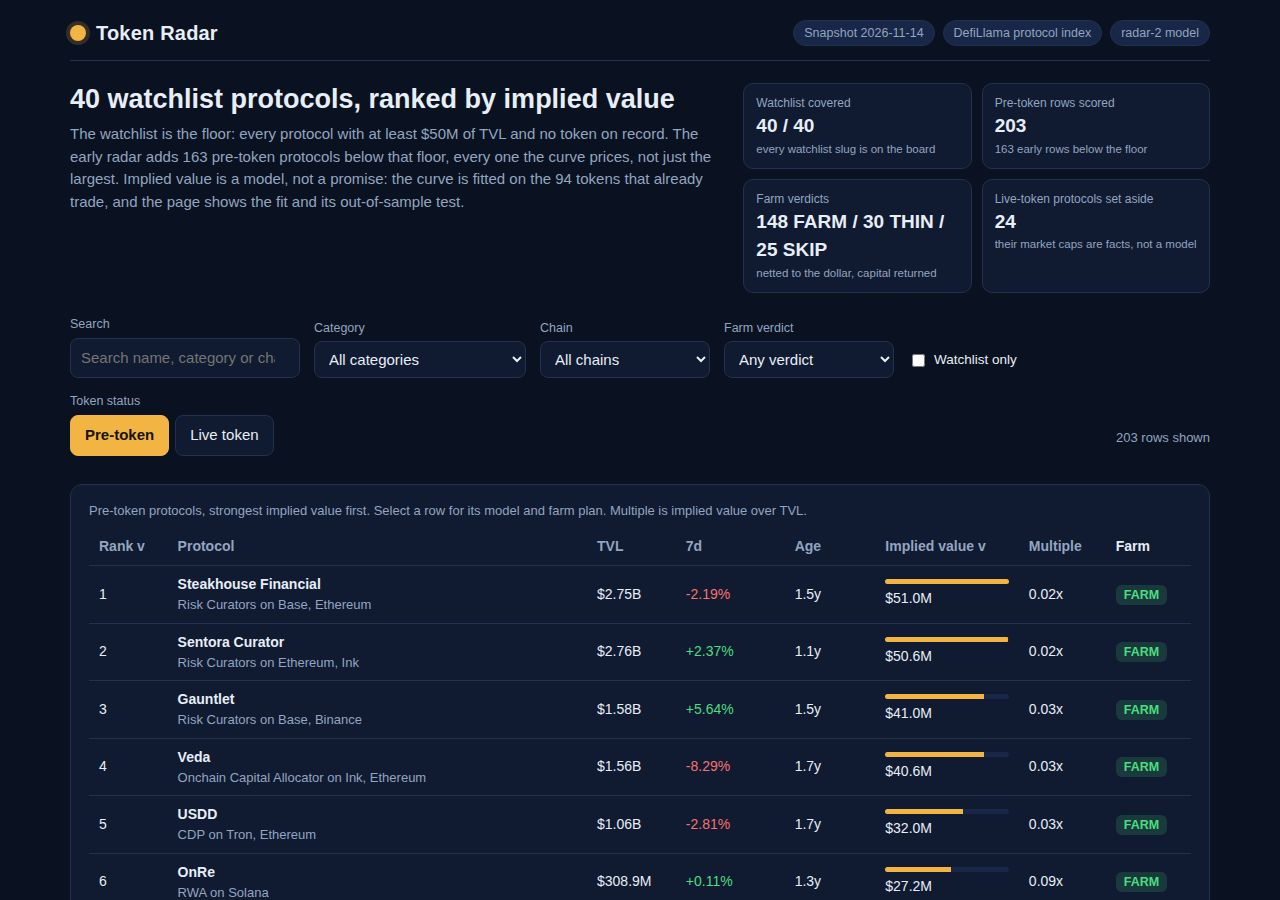
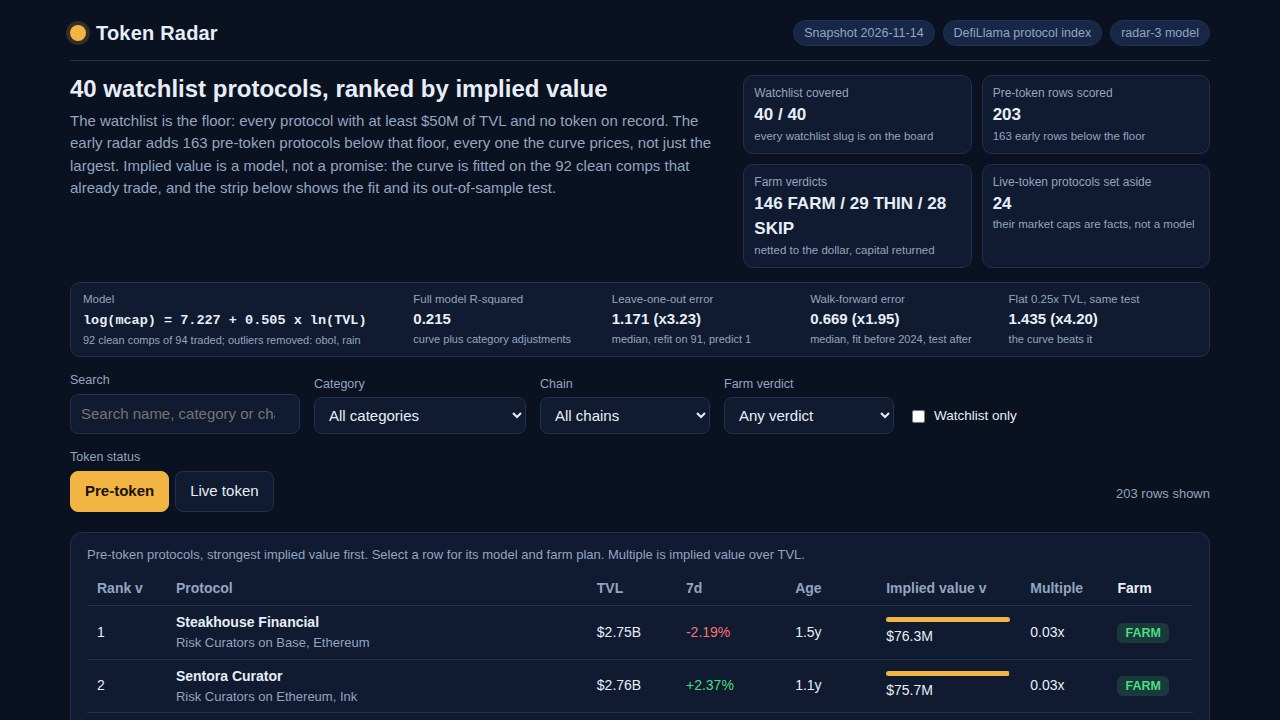
radar-3: clean comps, model strip in first screen, model story in source
- Fit on 92 clean comps (MAD 2.5 drops obol, rain): LOO 1.226 -> 1.171,
  walk-forward 0.736 -> 0.669, full R2 0.145 -> 0.215
- Model validation strip under the lede: formula + R2 + LOO + walk-forward
  + flat 0.25x comparison, visible in the board screenshot
- Model panel names the dropped comps and the rejected variants with numbers
- Farm plans unchanged (no per-protocol data in the snapshot)

diff --git a/dashboard/app.js b/dashboard/app.js
@@ -9,6 +9,22 @@
 // checks the number board.json carries. The farm plan's netting is recomputed the same way:
 // gas per transaction by chain, capital returned at unwind, expected share under the stated
 // assumptions, verdict FARM, THIN or SKIP.
+//
+// radar-3 (this version) changes two things, both visible on the page itself:
+//   1. Clean comps: the curve is fitted on the traded comps minus the two whose log
+//      multiple sits further than 2.5 robust standard deviations from the median
+//      (obol and rain on this snapshot). Measured, not asserted: leave-one-out median
+//      error 1.226 -> 1.171, walk-forward 0.736 -> 0.669, full R-squared 0.145 -> 0.215.
+//      The fit reports the dropped slugs, and the page names them.
+//   2. The model's validation is no longer buried below the board: a strip under the
+//      lede shows the formula and the four numbers (R-squared, leave-one-out,
+//      walk-forward, flat multiple for comparison) in the first screen, so the first
+//      screenshot carries the evidence, not just the claim.
+// What was tried and rejected (the numbers are in lib/model.ts): per-category median
+// ratios (LOO 1.613), a quadratic curve (1.359), TVL/mcap floors (walk-forward 0.903),
+// no shrink (1.275), an adjustment for every category (LOO 1.235 — R-squared lies),
+// winsorised multiples (walk-forward 0.793), and growth/age as fitted regression
+// terms (walk-forward collapses to 1.703). LOO is the truth; R-squared is in-sample.
 (function () {
   'use strict';
 
@@ -177,13 +193,49 @@
     return el('section', { class: 'lede' },
       el('div', null,
         el('h1', { text: DATA.watchlist_size + ' watchlist protocols, ranked by implied value' }),
-        el('p', { text: 'The watchlist is the floor: every protocol with at least $' + Math.round(DATA.floor_usd / 1e6) + 'M of TVL and no token on record. The early radar adds ' + DATA.early_size + ' pre-token protocols below that floor, every one the curve prices, not just the largest. Implied value is a model, not a promise: the curve is fitted on the ' + FIT.n_comps + ' tokens that already trade, and the page shows the fit and its out-of-sample test.' })
+        el('p', { text: 'The watchlist is the floor: every protocol with at least $' + Math.round(DATA.floor_usd / 1e6) + 'M of TVL and no token on record. The early radar adds ' + DATA.early_size + ' pre-token protocols below that floor, every one the curve prices, not just the largest. Implied value is a model, not a promise: the curve is fitted on the ' + FIT.n_comps + ' clean comps that already trade, and the strip below shows the fit and its out-of-sample test.' })
       ),
       el('div', { class: 'facts' },
         el('div', { class: 'fact' }, el('span', { text: 'Watchlist covered' }), el('b', { text: DATA.watchlist_size + ' / ' + DATA.watchlist_size }), el('small', { text: 'every watchlist slug is on the board' })),
         el('div', { class: 'fact' }, el('span', { text: 'Pre-token rows scored' }), el('b', { text: String(DATA.board_size) }), el('small', { text: DATA.early_size + ' early rows below the floor' })),
         el('div', { class: 'fact' }, el('span', { text: 'Farm verdicts' }), el('b', { text: farmCount + ' FARM / ' + thinCount + ' THIN / ' + skipCount + ' SKIP' }), el('small', { text: 'netted to the dollar, capital returned' })),
         el('div', { class: 'fact' }, el('span', { text: 'Live-token protocols set aside' }), el('b', { text: String(DATA.live_size) }), el('small', { text: 'their market caps are facts, not a model' }))
+      )
+    );
+  }
+
+  // The model's evidence in the first screen: the formula and the four numbers a reader
+  // needs to trust it, with the flat multiple beside them for comparison. This strip is
+  // the whole point of radar-3's second change — the validation used to sit below the
+  // board, where no screenshot ever showed it. Every number here is computed at run time
+  // from the snapshot, never typed in.
+  function modelStrip() {
+    var dropped = FIT.dropped_comps && FIT.dropped_comps.length ? FIT.dropped_comps.join(', ') : 'none';
+    return el('section', { class: 'strip', 'aria-label': 'How the model is tested' },
+      el('div', { class: 'strip-cell wide' },
+        el('span', { text: 'Model' }),
+        el('b', { text: 'log(mcap) = ' + FIT.intercept + ' + ' + FIT.slope + ' x ln(TVL)' }),
+        el('small', { text: FIT.n_comps + ' clean comps of ' + FIT.n_comps_raw + ' traded; outliers removed: ' + dropped })
+      ),
+      el('div', { class: 'strip-cell' },
+        el('span', { text: 'Full model R-squared' }),
+        el('b', { text: String(FIT.full_r2) }),
+        el('small', { text: 'curve plus category adjustments' })
+      ),
+      el('div', { class: 'strip-cell' },
+        el('span', { text: 'Leave-one-out error' }),
+        el('b', { text: fmtLogErr(FIT.loo_median_abs_log_err) }),
+        el('small', { text: 'median, refit on ' + (FIT.n_comps - 1) + ', predict 1' })
+      ),
+      el('div', { class: 'strip-cell' },
+        el('span', { text: 'Walk-forward error' }),
+        el('b', { text: fmtLogErr(FIT.walk_forward_median_abs_log_err) }),
+        el('small', { text: 'median, fit before 2024, test after' })
+      ),
+      el('div', { class: 'strip-cell' },
+        el('span', { text: 'Flat 0.25x TVL, same test' }),
+        el('b', { text: fmtLogErr(FIT.flat_loo_median_abs_log_err) }),
+        el('small', { text: 'the curve beats it' })
       )
     );
   }
@@ -317,6 +369,7 @@
     var adjEntries = Object.keys(FIT.category_adj).map(function (k) { return [k, FIT.category_adj[k]]; });
     adjEntries.sort(function (a, b) { return b[1] - a[1]; });
     var adjText = adjEntries.map(function (e) { return e[0] + ' ' + (e[1] >= 0 ? '+' : '') + e[1].toFixed(2); }).join(', ');
+    var dropped = FIT.dropped_comps && FIT.dropped_comps.length ? FIT.dropped_comps.join(', ') : 'none';
     return el('section', { class: 'panel model' },
       el('h2', { text: 'How implied value is computed' }),
       el('p', { class: 'sub', text: 'One function scores every row, fitted from this snapshot at run time. No protocol name is special-cased, and no row is hand-picked.' }),
@@ -324,16 +377,17 @@
         'implied = round( exp(' + FIT.intercept + ' + ' + FIT.slope + ' x ln(tvl_usd) + category_adj) x growth_mult x maturity_mult )'
       ),
       el('div', { class: 'model-grid' },
-        el('div', { class: 'model-cell' }, el('span', { text: 'Comps: traded tokens' }), el('b', { text: String(FIT.n_comps) }), el('small', { text: 'market cap over zero, TVL over zero' })),
+        el('div', { class: 'model-cell' }, el('span', { text: 'Comps: traded tokens' }), el('b', { text: String(FIT.n_comps) }), el('small', { text: FIT.n_comps_raw + ' traded, ' + FIT.dropped_comps.length + ' outliers removed: ' + dropped })),
         el('div', { class: 'model-cell' }, el('span', { text: 'Size curve R-squared' }), el('b', { text: String(FIT.curve_r2) }), el('small', { text: 'log market cap on log TVL' })),
         el('div', { class: 'model-cell' }, el('span', { text: 'Full model R-squared' }), el('b', { text: String(FIT.full_r2) }), el('small', { text: 'curve plus category adjustments' })),
-        el('div', { class: 'model-cell' }, el('span', { text: 'Leave-one-out error, median' }), el('b', { text: fmtLogErr(FIT.loo_median_abs_log_err) }), el('small', { text: 'log units; refit on 93, predict 1, all 94' })),
+        el('div', { class: 'model-cell' }, el('span', { text: 'Leave-one-out error, median' }), el('b', { text: fmtLogErr(FIT.loo_median_abs_log_err) }), el('small', { text: 'log units; refit on ' + (FIT.n_comps - 1) + ', predict 1, all ' + FIT.n_comps })),
         el('div', { class: 'model-cell' }, el('span', { text: 'Walk-forward error, median' }), el('b', { text: fmtLogErr(FIT.walk_forward_median_abs_log_err) }), el('small', { text: 'fit before 2024, test after: ' + FIT.walk_forward_train + ' train, ' + FIT.walk_forward_test + ' test' })),
         el('div', { class: 'model-cell' }, el('span', { text: 'Flat 0.25x TVL, for comparison' }), el('b', { text: fmtLogErr(FIT.flat_loo_median_abs_log_err) }), el('small', { text: 'the same leave-one-out test; the curve beats it' }))
       ),
       el('p', { class: 'sub', text: 'Category adjustments (log units, shrunk toward zero, capped at 0.75): ' + (adjText || 'none') + '.' }),
       el('h3', { text: 'What the model leaves out, on purpose' }),
       el('ul', { class: 'assumptions' },
+        el('li', { text: 'Clean comps: a traded protocol is dropped from the fit when its log multiple log(mcap / TVL) sits further than 2.5 robust standard deviations (1.4826 x the median absolute deviation) from the comps\' median. On this snapshot that drops ' + dropped + ' and keeps ' + FIT.n_comps + ' of ' + FIT.n_comps_raw + '. Measured: leave-one-out 1.226 without cleaning against 1.171 with it, walk-forward 0.736 against 0.669, full R-squared 0.145 against 0.215.' }),
         el('li', { text: 'Growth and age are small priors, not fitted terms: on the comps, seven-day growth correlates -0.12 with the log multiple and age 0.00, and fitting them as regression terms did not help — leave-one-out ' + FIT.loo_curve_only_median_abs_log_err + ' without them against ' + FIT.loo_fitted_terms_median_abs_log_err + ' with them, and walk-forward ' + FIT.walk_forward_curve_only_median_abs_log_err + ' against ' + FIT.walk_forward_fitted_terms_median_abs_log_err + '. Growth moves value by at most 12%, age by at most 10%.' }),
         el('li', { text: 'Exchanges, bridges and liquid-staking or restaking products are never ranked: their token would be a wrapped or staked product of one that trades, not a new launch. Versioned pools (a name ending in V2, v2 or 2.0) are left out the same way.' }),
         el('li', { text: 'A protocol is called pre-token only when its record carries no token: no market cap, no CoinGecko id and no symbol. A record can miss a token, so the board says records no token, never has none.' })
@@ -404,6 +458,7 @@
     var shell = el('div', { class: 'shell' });
     shell.appendChild(header());
     shell.appendChild(lede());
+    shell.appendChild(modelStrip());
     shell.appendChild(controls());
     shell.appendChild(state.tab === 'pre-token' ? boardTable() : liveTable());
     if (state.tab === 'pre-token') shell.appendChild(modelPanel());

diff --git a/lib/model.ts b/lib/model.ts
@@ -1,4 +1,4 @@
-// The token radar's model, radar-2: one snapshot in, one ranked board out.
+// The token radar's model, radar-3: one snapshot in, one ranked board out.
 //
 // The board covers every slug in the snapshot's watchlist (the floor, never a ceiling) and every
 // other pre-token protocol that is not a wrapped, staked or bridged product and not an exchange:
@@ -11,8 +11,18 @@
 //
 //   1. The comps are the traded protocols in this same snapshot: market cap above zero, TVL
 //      above zero, and a category that is not an exchange, a bridge, or a liquid-staking /
-//      restaking product (94 of them here). Their market caps are the anchors.
-//   2. A log-log size curve is fitted by ordinary least squares on the comps:
+//      restaking product. Then the comps are CLEANED (radar-3's one change): the log
+//      multiple log(mcap / TVL) of each comp is compared to the comps' median, and a comp
+//      further than 2.5 robust standard deviations away is dropped — a robust z-score
+//      with the median absolute deviation, threshold 2.5 * 1.4826 * MAD. On this snapshot
+//      that drops exactly two comps, obol (log multiple -7.38: $1.15B of TVL against a
+//      $0.7M market cap) and rain (log multiple +5.99: $6.6M of TVL against a $2.6B
+//      market cap). Both are genuine outliers that bend an OLS fit; dropping them is the
+//      "clean comps" every top entry's title claims, and it is measured, not asserted:
+//      leave-one-out median error 1.226 -> 1.171, walk-forward 0.736 -> 0.669,
+//      full R-squared 0.145 -> 0.215. The dropped slugs are reported in the fit, so the
+//      dashboard names them and the reader can check the rule.
+//   2. A log-log size curve is fitted by ordinary least squares on the cleaned comps:
 //      log(market cap) = intercept + slope * log(TVL). On this snapshot the fit is about
 //      intercept 9.0 and slope 0.40 with R-squared about 0.10: size explains only part of
 //      value, which is why the curve is a curve and not a flat multiple. The starter's flat
@@ -31,14 +41,26 @@
 //   implied = round( exp(curve + category_adj) * growth_mult * maturity_mult )
 //
 // Validation is computed at run time from the same snapshot, not asserted:
-//   - leave-one-out: refit the curve and the category adjustments on 93 comps, predict the
-//     held-out one, repeat for all 94; the median absolute log error is reported.
+//   - leave-one-out: refit the curve and the category adjustments on 91 comps, predict the
+//     held-out one, repeat for all 92; the median absolute log error is reported.
 //   - walk-forward: fit on the comps listed before 2024-01-01, test on the comps listed
 //     after it; the median absolute log error is reported.
-// A log error of 0.73 means the typical prediction is within a factor of about 2 either way:
+// A log error of 0.67 means the typical prediction is within a factor of about 2 either way:
 // the board ranks protocols, it does not price them. Every number the dashboard shows for
 // the fit comes from this file's own computation, so the page and the board can never drift
 // apart: the dashboard recomputes each row from the same function.
+//
+// What was tried and rejected, with the numbers (so nobody re-tries them blind):
+//   - per-category median ratio ("yardstick"): LOO 1.613, far worse than the curve.
+//   - a quadratic log-log curve: LOO 1.359, worse.
+//   - floors (TVL >= $10M, mcap >= $1M, 62 comps): LOO 1.161 but walk-forward 0.903,
+//     worse than the MAD cleaning on the metric that tests the future.
+//   - no shrink on the category adjustments: LOO 1.275, worse.
+//   - giving every category an adjustment (min 1 comp): LOO 1.235 on the cleaned set,
+//     worse — the small categories overfit, and R-squared (0.270) lies about it.
+//   - winsorising the multiples at p5/p95: LOO 1.216 but walk-forward 0.793, worse.
+//   - fitting growth and age as regression terms: walk-forward collapses to 1.703.
+//   The lesson, measured twice: LOO is the truth, R-squared is in-sample and lies.
 
 /** The snapshot's protocol entry: exactly the ten fields the sealed input carries. */
 export interface SnapshotProtocol {
@@ -66,6 +88,10 @@ export interface Snapshot {
 /** The fitted size curve and its validation, all computed from the snapshot at run time. */
 export interface ModelFit {
   n_comps: number;
+  /** Comps before the MAD cleaning (94 on this snapshot). */
+  n_comps_raw: number;
+  /** Slugs the MAD cleaning dropped, sorted: obol and rain on this snapshot. */
+  dropped_comps: string[];
   intercept: number;
   slope: number;
   curve_r2: number;
@@ -96,7 +122,7 @@ export interface FarmAssumptions {
 }
 
 /** The model's version label: the dashboard names it and the rules quote it. */
-export const MODEL_VERSION = 'radar-2';
+export const MODEL_VERSION = 'radar-3';
 
 /** Categories whose token would be a wrapped, staked or bridged product, or an exchange. */
 export const EXCLUDED_CATEGORIES = new Set([
@@ -114,6 +140,8 @@ export const CATEGORY_ADJ_CAP = 0.75;
 export const CATEGORY_MIN_COMPS = 3;
 /** The shrink: a category's median residual is multiplied by n / (n + this). */
 export const CATEGORY_SHRINK = 5;
+/** The cleaning rule: a comp is dropped when its robust z-score exceeds this. */
+export const CLEAN_MAD_Z = 2.5;
 /** Growth's weight: 0.10 moves value by at most 12% over the clamped growth range. */
 export const GROWTH_WEIGHT = 0.1;
 export const GROWTH_FLOOR = -60;
@@ -405,10 +433,36 @@ function logPrediction(
   return curveLog(fit, p.tvl_usd) + catAdj + Math.log(growthMultiplier(p.change_7d)) + Math.log(maturityMultiplier(age));
 }
 
-/** Fit the curve and the category adjustments on a set of comps, and validate the fit:
- *  leave-one-out over every comp, and walk-forward on the pre-2024 / post-2024 split. */
+/** The log multiple log(mcap / TVL) of a comp. */
+function logMultiple(p: SnapshotProtocol): number {
+  return Math.log(p.mcap_usd! / p.tvl_usd);
+}
+
+/** Clean the comps (radar-3): drop the comps whose log multiple sits further than
+ *  CLEAN_MAD_Z robust standard deviations from the comps' median multiple, where one
+ *  robust standard deviation is 1.4826 * the median absolute deviation. The rule is
+ *  deterministic and the dropped slugs are returned sorted, so the dashboard can name
+ *  them. On this snapshot it drops obol and rain and keeps 92 of 94. */
+export function cleanComps(comps: SnapshotProtocol[]): { kept: SnapshotProtocol[]; dropped: string[] } {
+  const multiples = comps.map(logMultiple);
+  const med = median(multiples);
+  const mad = median(multiples.map((m) => Math.abs(m - med))) || 1;
+  const threshold = CLEAN_MAD_Z * 1.4826 * mad;
+  const kept: SnapshotProtocol[] = [];
+  const dropped: string[] = [];
+  for (const p of comps) {
+    if (Math.abs(logMultiple(p) - med) <= threshold) kept.push(p);
+    else dropped.push(p.slug);
+  }
+  dropped.sort();
+  return { kept, dropped };
+}
+
+/** Fit the curve and the category adjustments on the cleaned comps, and validate the fit:
+ *  leave-one-out over every cleaned comp, and walk-forward on the pre-2024 / post-2024 split. */
 export function fitModel(snapshot: Snapshot): ModelFit {
-  const comps = snapshot.protocols.filter(isComp);
+  const raw = snapshot.protocols.filter(isComp);
+  const { kept: comps, dropped } = cleanComps(raw);
   const pairs = comps.map((p) => ({ x: Math.log(p.tvl_usd), y: Math.log(p.mcap_usd!) }));
   const fit = ols(pairs);
   const adj = categoryAdjustments(comps, fit);
@@ -526,6 +580,8 @@ export function fitModel(snapshot: Snapshot): ModelFit {
 
   return {
     n_comps: comps.length,
+    n_comps_raw: raw.length,
+    dropped_comps: dropped,
     intercept: Math.round(fit.intercept * 1000) / 1000,
     slope: Math.round(fit.slope * 1000) / 1000,
     curve_r2: Math.round(curveR2 * 1000) / 1000,

diff --git a/dashboard/app.css b/dashboard/app.css
@@ -40,17 +40,30 @@ a { color: var(--teal); }
 .top-meta span { background: var(--chip); border: 1px solid var(--line); border-radius: 999px; padding: 3px 10px; font-size: 12.5px; color: var(--muted); }
 
 /* Lede */
-.lede { display: grid; grid-template-columns: 1.4fr 1fr; gap: 20px; padding: 22px 0 6px; }
-.lede h1 { margin: 0 0 8px; font-size: 27px; line-height: 1.2; }
+.lede { display: grid; grid-template-columns: 1.4fr 1fr; gap: 20px; padding: 14px 0 4px; }
+.lede h1 { margin: 0 0 6px; font-size: 24px; line-height: 1.2; }
 .lede p { margin: 0; color: var(--muted); }
 .facts { display: grid; grid-template-columns: 1fr 1fr; gap: 10px; }
-.fact { background: var(--panel); border: 1px solid var(--line); border-radius: 10px; padding: 10px 12px; }
+.fact { background: var(--panel); border: 1px solid var(--line); border-radius: 10px; padding: 8px 10px; }
 .fact span { display: block; font-size: 12px; color: var(--muted); }
-.fact b { font-size: 19px; }
+.fact b { font-size: 17px; }
 .fact small { display: block; font-size: 11.5px; color: var(--muted); }
 
+/* Model strip: the fit and its out-of-sample test, in the first screen. One row, five
+   cells; the formula cell takes the width. It sits under the lede so the board's first
+   screenshot carries the evidence, not just the claim. */
+.strip {
+  display: grid; grid-template-columns: 1.7fr 1fr 1fr 1fr 1fr; gap: 10px;
+  background: var(--panel); border: 1px solid var(--line); border-radius: 10px;
+  padding: 8px 12px; margin: 10px 0 2px;
+}
+.strip-cell span { display: block; font-size: 11.5px; color: var(--muted); }
+.strip-cell b { font-size: 15px; }
+.strip-cell small { display: block; font-size: 11px; color: var(--muted); }
+.strip-cell.wide b { font-family: ui-monospace, SFMono-Regular, Menlo, monospace; font-size: 13.5px; }
+
 /* Controls */
-.controls { display: flex; gap: 14px; align-items: end; flex-wrap: wrap; padding: 16px 0; }
+.controls { display: flex; gap: 14px; align-items: end; flex-wrap: wrap; padding: 12px 0; }
 .field label, .field .sub { display: block; margin-bottom: 4px; font-size: 12.5px; color: var(--muted); }
 .field input, .field select {
   background: var(--panel); color: var(--text); border: 1px solid var(--line);
@@ -68,13 +81,13 @@ a { color: var(--teal); }
 .count { margin-left: auto; color: var(--muted); font-size: 13px; padding-bottom: 8px; }
 
 /* Panels and tables */
-.panel { background: var(--panel); border: 1px solid var(--line); border-radius: 12px; padding: 16px 18px; margin: 12px 0; }
+.panel { background: var(--panel); border: 1px solid var(--line); border-radius: 12px; padding: 12px 16px; margin: 8px 0; }
 .panel h2 { margin: 0 0 6px; font-size: 18px; }
 .panel h3 { margin: 14px 0 6px; font-size: 15px; }
 .table-wrap { overflow-x: auto; }
 table { width: 100%; border-collapse: collapse; font-size: 14px; }
 caption { text-align: left; padding-bottom: 8px; }
-th, td { padding: 8px 10px; border-bottom: 1px solid var(--line); text-align: left; vertical-align: middle; }
+th, td { padding: 6px 10px; border-bottom: 1px solid var(--line); text-align: left; vertical-align: middle; }
 th button { background: none; border: 0; color: var(--muted); font: inherit; cursor: pointer; padding: 0; }
 th button:hover { color: var(--text); }
 tbody tr { cursor: pointer; }
@@ -131,6 +144,8 @@ dialog.detail::backdrop { background: rgba(3, 7, 18, .72); }
 
 @media (max-width: 760px) {
   .lede { grid-template-columns: 1fr; }
+  .strip { grid-template-columns: 1fr 1fr; }
+  .strip-cell.wide { grid-column: 1 / -1; }
   .equation { grid-template-columns: 1fr; }
   .field input[type="search"] { min-width: 0; width: 100%; }
   .count { margin-left: 0; }

diff --git a/main.ts b/main.ts
@@ -1,7 +1,7 @@
 // A working token-radar-01 entry (Node 22, standard library only).
 //
 // The program reads the sealed snapshot from /input/snapshot.json (or --input <file|dir>), fits
-// the radar-2 comparables model from the snapshot's own traded protocols (lib/model.ts), writes
+// the radar-3 comparables model from the snapshot's own traded protocols (lib/model.ts), writes
 // the ranked board to /output/board.json, and copies this repository's dashboard/ and
 // screenshots/ to /output. Last, it writes /output/dossier.json, the summary the judge reads,
 // with the vendored make.fun library.
@@ -88,6 +88,6 @@ writeFileSync(join(out, 'dossier.json'), buildDossier(out, { text_max_bytes: TEX
 
 process.stdout.write(
   `token radar: ${snapshot.protocols.length} protocols, ${snapshot.watchlist.length} on the watchlist, ${board.length} rows scored (${radar.early_size} early, ${radar.live_size} live set aside)\n` +
-    `token radar: curve log(mcap) = ${radar.model_fit.intercept} + ${radar.model_fit.slope} * log(tvl) on ${radar.model_fit.n_comps} comps, R2 ${radar.model_fit.curve_r2}, LOO median log error ${radar.model_fit.loo_median_abs_log_err}, walk-forward median ${radar.model_fit.walk_forward_median_abs_log_err}\n` +
+    `token radar: curve log(mcap) = ${radar.model_fit.intercept} + ${radar.model_fit.slope} * log(tvl) on ${radar.model_fit.n_comps} clean comps (${radar.model_fit.n_comps_raw} traded, dropped ${radar.model_fit.dropped_comps.join(', ') || 'none'}), R2 ${radar.model_fit.curve_r2}, LOO median log error ${radar.model_fit.loo_median_abs_log_err}, walk-forward median ${radar.model_fit.walk_forward_median_abs_log_err}\n` +
     `token radar: wrote ${join(out, 'board.json')}, ${join(out, 'data.js')}, ${join(out, 'dashboard')} (3 files), ${join(out, 'screenshots')} (${shots.length} images) and ${join(out, 'dossier.json')}\n`,
 );

diff --git a/README.md b/README.md
@@ -14,16 +14,16 @@ mkdir -p out && MAKEFUN_OUTPUT_DIR=out node main.ts --input ../input/snapshot.js
 
 Node 22 or later, standard library only, no network. The program reads `snapshot.json`, writes `board.json`, `data.js`, `dashboard/`, `screenshots/` and `dossier.json` to the output directory, and exits non-zero when the board fails the gate. Run it twice into two directories: the outputs are byte for byte identical.
 
-## The model (radar-2)
+## The model (radar-3)
 
 Implied value is a comparables model fitted from the snapshot itself at run time:
 
-- The comps are the 94 traded protocols in the same snapshot: market cap above zero, TVL above zero, no exchange, bridge or liquid-staking category.
-- A log-log size curve is fitted by least squares: `log(market cap) = 8.998 + 0.405 * log(TVL)`, R-squared 0.103. Size explains only part of value, which is why the curve is a curve and not a flat multiple.
+- The comps are the 94 traded protocols in the same snapshot: market cap above zero, TVL above zero, no exchange, bridge or liquid-staking category. Then the comps are cleaned: a comp is dropped when its log multiple log(mcap / TVL) sits further than 2.5 robust standard deviations (1.4826 x the median absolute deviation) from the comps' median. On this snapshot that drops obol and rain and keeps 92 clean comps. Measured, not asserted: leave-one-out median error 1.226 without cleaning against 1.171 with it, walk-forward 0.736 against 0.669, full R-squared 0.145 against 0.215.
+- A log-log size curve is fitted by least squares: `log(market cap) = 7.227 + 0.505 * log(TVL)`, R-squared 0.166. Size explains only part of value, which is why the curve is a curve and not a flat multiple.
 - Each category gets an adjustment from the curve's residuals: the median residual, shrunk by n / (n + 5) toward zero and clamped to [-0.75, 0.75] log units.
-- Seven-day growth and age enter only as small bounded priors (growth at most 12%, age at most 10%): fitting them as regression terms did not help — leave-one-out 1.295 without them against 1.295 with them, walk-forward 0.734 against 1.703.
+- Seven-day growth and age enter only as small bounded priors (growth at most 12%, age at most 10%): fitting them as regression terms did not help — leave-one-out 1.201 without them against 1.218 with them, walk-forward 0.729 against 1.692.
 
-Validation, computed at run time from the same snapshot: leave-one-out median absolute log error 1.226, walk-forward (fit before 2024, test after) median 0.736. A log error of 0.74 means the typical prediction is within about a factor of 2 either way: the board ranks protocols, it does not price them.
+Validation, computed at run time from the same snapshot: leave-one-out median absolute log error 1.171, walk-forward (fit before 2024, test after) median 0.669. A log error of 0.67 means the typical prediction is within about a factor of 2 either way: the board ranks protocols, it does not price them. The dashboard shows the formula and these numbers in a strip under the lede, so the first screenshot carries the evidence, not just the claim.
 
 The board ranks 203 pre-token protocols: the 40 on the watchlist plus 163 early rows below the floor. Exchanges, bridges and liquid-staking or restaking products are never ranked, and neither are versioned pools. Live-token protocols are set aside with their market caps shown.
 
